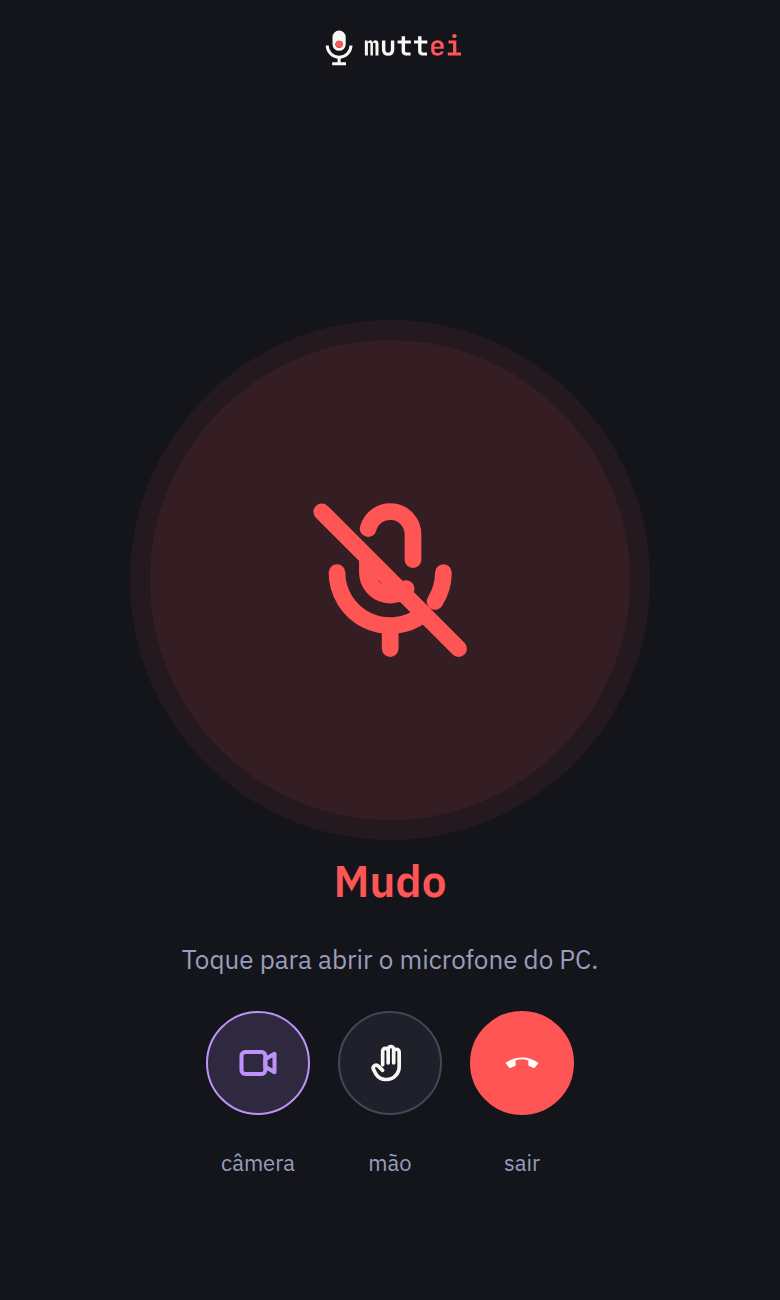
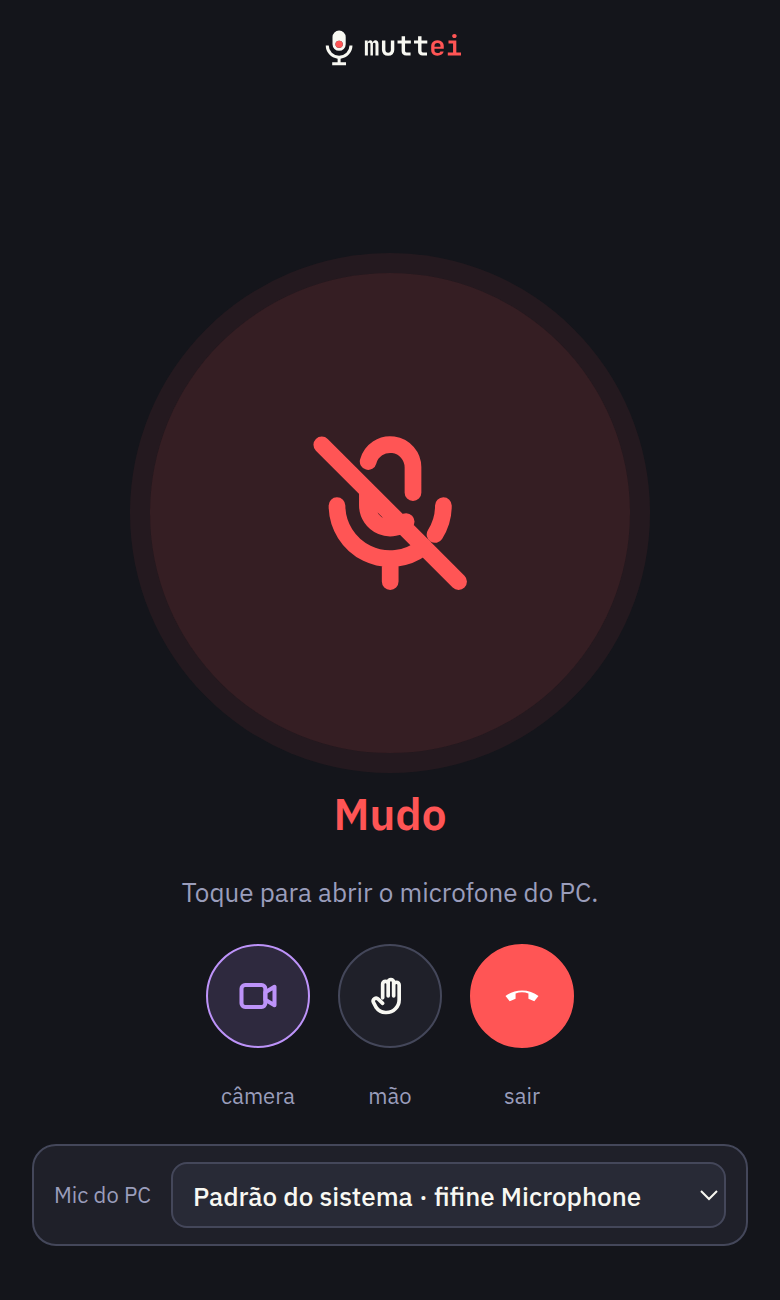
Pick the PC microphone from the phone

diff --git a/ui/phone.html b/ui/phone.html
@@ -10,7 +10,7 @@
 @font-face{font-family:"IBM Plex Sans";font-weight:100 700;font-display:swap;src:url(/fonts/IBMPlexSans.woff2) format("woff2")}
 @font-face{font-family:"JetBrains Mono";font-weight:100 800;font-display:swap;src:url(/fonts/JetBrainsMono.woff2) format("woff2")}
 /* telas do celular do protótipo aprovado, em tela cheia */
-:root{--yellow:#f1fa8c;--accent-soft:rgba(189,147,249,.16);--fg:#f8f8f2;--muted:#9a9dbb;--comment:#6272a4;--accent:#bd93f9;--ok:#50fa7b;--bad:#ff5555;--bad-soft:rgba(255,85,85,.14);--ok-soft:rgba(80,250,123,.12);
+:root{--yellow:#f1fa8c;--orange:#ffb86c;--accent-soft:rgba(189,147,249,.16);--fg:#f8f8f2;--muted:#9a9dbb;--comment:#6272a4;--accent:#bd93f9;--ok:#50fa7b;--bad:#ff5555;--bad-soft:rgba(255,85,85,.14);--ok-soft:rgba(80,250,123,.12);
   --sans:"IBM Plex Sans",system-ui,sans-serif;--mono:"JetBrains Mono",ui-monospace,monospace;color-scheme:dark}
 *{box-sizing:border-box}
 html,body{margin:0;height:100%}
@@ -18,7 +18,8 @@ body{background:#14151b;color:var(--fg);font:13px/1.45 var(--sans);display:flex;
   padding:env(safe-area-inset-top,0px) max(16px,env(safe-area-inset-right,0px)) env(safe-area-inset-bottom,0px) max(16px,env(safe-area-inset-left,0px))}
 button{font:inherit;color:inherit;background:none;border:0;cursor:pointer;padding:0;-webkit-tap-highlight-color:transparent}
 :focus-visible{outline:2px solid var(--accent);outline-offset:2px}
-.pbody{flex:1;display:flex;flex-direction:column;align-items:center;justify-content:center;gap:16px;padding:20px 0;text-align:center}
+.pbody{flex:1;display:flex;flex-direction:column;align-items:center;justify-content:safe center;gap:16px;padding:20px 0;text-align:center;min-height:0;overflow-y:auto}
+.pbody>*{flex-shrink:0}
 .pbody.buzz{animation:buzz .32s linear}
 @keyframes buzz{20%{transform:translateX(-3px) rotate(-.6deg)}40%{transform:translateX(3px) rotate(.6deg)}60%{transform:translateX(-2px)}80%{transform:translateX(2px)}}
 .pbody h3{margin:0;font-size:17px;font-weight:600;text-wrap:balance}
@@ -47,6 +48,10 @@ button{font:inherit;color:inherit;background:none;border:0;cursor:pointer;paddin
 .pb:disabled{opacity:.35;cursor:default}
 .plabels{display:flex;gap:14px;font-size:11px;color:var(--muted)}
 .plabels span{width:52px;text-align:center}
+.pmic{width:100%;display:grid;grid-template-columns:auto 1fr;align-items:center;gap:4px 10px;padding:8px 10px;border-radius:12px;background:#1f2029;border:1px solid #44475a;text-align:left}
+.pmic label{font-size:11px;color:var(--muted)}
+.pmic select{min-width:0;font:500 13px var(--sans);color:var(--fg);background:#282a36;border:1px solid #44475a;border-radius:8px;padding:6px}
+.pmic .gone{grid-column:1/-1;font-size:11.5px;color:var(--orange)}
 @media (prefers-reduced-motion:reduce){*{animation:none!important;transition:none!important}}
 </style>
 </head>
@@ -68,7 +73,7 @@ const $ = s => document.querySelector(s);
 const esc = s => String(s ?? '').replace(/&/g,'&amp;').replace(/</g,'&lt;').replace(/>/g,'&gt;');
 const store = { get(){ try{ return localStorage.getItem('muttei-token'); }catch(e){ return null; } },
                 set(v){ try{ v ? localStorage.setItem('muttei-token', v) : localStorage.removeItem('muttei-token'); }catch(e){} } };
-const st = { screen: store.get() ? 'wait' : 'pin', err:'', muted:false, meet:null, host:location.hostname, token:store.get() };
+const st = { screen: store.get() ? 'wait' : 'pin', err:'', muted:false, meet:null, host:location.hostname, token:store.get(), mics:[], mic:null, mic_desc:'', mic_gone:false };
 let ws;
 
 function buzz(){ const b=$('#pbody'); b.classList.remove('buzz'); void b.offsetWidth; b.classList.add('buzz'); try{ navigator.vibrate && navigator.vibrate(40); }catch(e){} }
@@ -81,7 +86,8 @@ function connect(){
     const m = JSON.parse(e.data);
     if(m.host) st.host = m.host;
     if('meet' in m) st.meet = m.meet;
-    if(m.t==='paired'){ st.token=m.token; store.set(m.token); st.muted=m.muted; st.screen='ctl'; st.err=''; buzz(); }
+    if('mics' in m) Object.assign(st, {mics:m.mics, mic:m.mic, mic_desc:m.mic_desc, mic_gone:m.mic_gone});
+    if(m.t==='paired'){ st.token=m.token; store.set(m.token); st.muted=m.muted; st.screen='ctl'; st.err=''; buzz(); send({t:'hello', token:m.token}); }
     else if(m.t==='bad'){ st.err=`Código errado. ${m.left} tentativa${m.left>1?'s':''} antes de gerar um novo.`; render(); const p=$('.pin'); p&&p.classList.add('bad'); return; }
     else if(m.t==='regen'){ st.err='5 tentativas erradas. O PC gerou um código novo; espere 1 minuto.'; }
     else if(m.t==='locked'){ st.err=`Muitas tentativas. Espere ${m.secs} s e use o código novo.`; }
@@ -129,11 +135,21 @@ function render(){
         <button class="pb leave" data-pc="leave" ${ready?'':'disabled'} aria-label="Sair da chamada">${ICON.leave}</button>
       </div>
       <div class="plabels"><span>câmera</span><span>mão</span><span>sair</span></div>
-      ${ready?'':'<p style="font-size:12px">Câmera, mão e sair aparecem quando houver uma chamada do Meet aberta.</p>'}`;
+      ${ready?'':'<p style="font-size:12px">Câmera, mão e sair aparecem quando houver uma chamada do Meet aberta.</p>'}
+      ${micPicker()}`;
     pf.textContent = `● conectado a ${st.host} · token ${st.token.slice(0,6)}…`;
     $('#pMic').onclick = ()=>send({t:'toggle', token:st.token});
     pb.querySelectorAll('[data-pc]').forEach(b=>b.onclick=()=>send({t:'cmd', cmd:b.dataset.pc, token:st.token}));
+    const pm = $('#pMicSel');
+    if(pm){ pm.value = st.mic || ''; pm.onchange = ()=>{ buzz(); send({t:'mic', name:pm.value||null, token:st.token}); }; }
   }
+}
+function micPicker(){
+  if(!st.mics.length) return '';
+  const def = st.mics.find(m=>m.def), opts = st.mic_gone ? [...st.mics, {name:st.mic, desc:st.mic_desc, gone:true}] : st.mics;
+  return `<div class="pmic"><label for="pMicSel">Mic do PC</label>
+    <select id="pMicSel"><option value="">Padrão do sistema${def?` · ${esc(def.desc)}`:''}</option>${opts.map(m=>`<option value="${esc(m.name)}">${esc(m.desc)}${m.gone?' (desconectado)':''}</option>`).join('')}</select>
+    ${st.mic_gone?'<span class="gone">Desconectado: usando o padrão até ele voltar.</span>':''}</div>`;
 }
 render();
 connect();

diff --git a/src-tauri/src/main.rs b/src-tauri/src/main.rs
@@ -44,6 +44,7 @@ const TOP: f64 = 40.0;
 
 #[derive(Clone)]
 pub enum Event {
+    Mics,
     Muted(bool),
     Devices,
     Cmd(String),
@@ -105,6 +106,14 @@ struct HoldView {
 }
 
 #[derive(Serialize, Clone)]
+pub struct MicView {
+    mic: Option<String>,
+    mic_desc: String,
+    mics: Vec<audio::Mic>,
+    mic_gone: bool,
+}
+
+#[derive(Serialize, Clone)]
 struct Snapshot {
     muted: bool,
     holding: Option<HoldView>,
@@ -122,10 +131,8 @@ struct Snapshot {
     lock_rule: bool,
     app_rule: bool,
     meet_rule: bool,
-    mic: Option<String>,
-    mic_desc: String,
-    mics: Vec<audio::Mic>,
-    mic_gone: bool,
+    #[serde(flatten)]
+    mic: MicView,
     apps: Vec<String>,
     running: Vec<String>,
     phone_on: bool,
@@ -190,8 +197,31 @@ impl Core {
             self.update_indicators();
         }
         if retarget || relist {
+            let _ = self.tx.send(Event::Mics);
             self.emit_state();
         }
+    }
+
+    pub fn mic_view(&self) -> MicView {
+        let s = self.settings();
+        MicView {
+            mic_gone: s.mic.is_some() && *self.target.lock().unwrap() == audio::DEFAULT,
+            mic: s.mic,
+            mic_desc: s.mic_desc,
+            mics: self.mics.lock().unwrap().clone(),
+        }
+    }
+
+    pub fn set_mic(self: &Arc<Self>, name: Option<&str>, src: &str) -> bool {
+        let mics = self.mics.lock().unwrap().clone();
+        let Some(m) = audio::pick(&mics, name) else { return false };
+        let desc = m.map(|m| m.desc.clone()).unwrap_or_default();
+        if self.update(serde_json::json!({"mic": name, "mic_desc": desc})).is_err() {
+            return false;
+        }
+        let shown = if desc.is_empty() { "padrão do sistema".to_string() } else { desc };
+        self.pill_icon(if self.muted() { "off" } else { "on" }, "Microfone", &format!("{shown} · {src}"), "mic");
+        true
     }
 
     pub fn hostname(&self) -> String {
@@ -231,10 +261,7 @@ impl Core {
             lock_rule: s.lock_rule,
             app_rule: s.app_rule,
             meet_rule: s.meet_rule,
-            mic_gone: s.mic.is_some() && *self.target.lock().unwrap() == audio::DEFAULT,
-            mic: s.mic.clone(),
-            mic_desc: s.mic_desc.clone(),
-            mics: self.mics.lock().unwrap().clone(),
+            mic: self.mic_view(),
             apps: s.apps.clone(),
             running: self.running.lock().unwrap().iter().filter(|r| s.apps.contains(r)).cloned().collect(),
             phone_on: s.phone_on,
@@ -656,6 +683,7 @@ impl Core {
         }
         if old.mic != new.mic {
             self.refresh_mics();
+            let _ = self.tx.send(Event::Mics);
         }
         if old.dot_corner != new.dot_corner {
             ensure_dots(&self.app, &new.dot_corner);

diff --git a/src-tauri/src/remote.rs b/src-tauri/src/remote.rs
@@ -138,7 +138,11 @@ impl Pairing {
 }
 
 fn phone_state(core: &Core, host: &str) -> Value {
-    json!({"t":"state","muted":core.muted(),"host":host,"meet":core.meet_status()})
+    let mut v = json!({"t":"state","muted":core.muted(),"host":host,"meet":core.meet_status()});
+    if let (Some(o), Ok(Value::Object(m))) = (v.as_object_mut(), serde_json::to_value(core.mic_view())) {
+        o.extend(m);
+    }
+    v
 }
 
 fn device_name(ua: &str) -> String {
@@ -194,10 +198,14 @@ async fn phone_loop(mut ws: WebSocket, core: Arc<Core>, ua: String) {
                         };
                         if !send(&mut ws, reply).await { break }
                     }
-                    "hello" | "toggle" | "cmd" if core.valid_token(&tok) => {
+                    "hello" | "toggle" | "cmd" | "mic" if core.valid_token(&tok) => {
                         authed = Some(tok);
                         let reply = match v["t"].as_str() {
                             Some("toggle") => json!({"t":"ack","muted":core.toggle("celular")}),
+                            Some("mic") => {
+                                core.set_mic(v["name"].as_str(), "celular");
+                                phone_state(&core, &host)
+                            }
                             Some("cmd") => {
                                 let cmd = v["cmd"].as_str().filter(|c| MEET_CMDS.contains(c)).unwrap_or("");
                                 json!({"t":"ack","muted":core.muted(),"cmd":cmd,"ok":!cmd.is_empty() && core.meet_cmd(cmd, "celular")})
@@ -206,7 +214,7 @@ async fn phone_loop(mut ws: WebSocket, core: Arc<Core>, ua: String) {
                         };
                         if !send(&mut ws, reply).await { break }
                     }
-                    "hello" | "toggle" | "cmd" => {
+                    "hello" | "toggle" | "cmd" | "mic" => {
                         authed = None;
                         if !send(&mut ws, json!({"t":"revoked"})).await { break }
                     }
@@ -217,7 +225,7 @@ async fn phone_loop(mut ws: WebSocket, core: Arc<Core>, ua: String) {
                 let Ok(e) = e else { continue };
                 let Some(tok) = authed.clone() else { continue };
                 let msg = match e {
-                    Event::Muted(_) | Event::Meet => phone_state(&core, &host),
+                    Event::Muted(_) | Event::Meet | Event::Mics => phone_state(&core, &host),
                     Event::Devices if !core.valid_token(&tok) => { authed = None; json!({"t":"revoked"}) }
                     Event::Devices | Event::Cmd(_) => continue,
                 };

diff --git a/src-tauri/src/audio.rs b/src-tauri/src/audio.rs
@@ -90,6 +90,14 @@ pub fn mics() -> Vec<Mic> {
     Command::new("pw-dump").output().map(|o| parse_mics(&String::from_utf8_lossy(&o.stdout))).unwrap_or_default()
 }
 
+/// `None` means the name isn't a known mic; `Some(None)` is the system default.
+pub fn pick<'a>(mics: &'a [Mic], name: Option<&str>) -> Option<Option<&'a Mic>> {
+    match name {
+        None => Some(None),
+        Some(n) => mics.iter().find(|m| m.name == n).map(Some),
+    }
+}
+
 pub fn target(mics: &[Mic], chosen: Option<&str>) -> String {
     chosen.and_then(|c| mics.iter().find(|m| m.name == c)).map(|m| m.id.clone()).unwrap_or_else(|| DEFAULT.into())
 }
@@ -132,5 +140,8 @@ mod tests {
         assert_eq!(target(&m, Some("unplugged")), DEFAULT);
         assert_eq!(target(&m, None), DEFAULT);
         assert!(parse_mics("not json").is_empty());
+        assert_eq!(pick(&m, None), Some(None));
+        assert_eq!(pick(&m, Some("headset")).flatten().map(|x| x.id.as_str()), Some("57"));
+        assert_eq!(pick(&m, Some("../../etc")), None);
     }
 }

diff --git a/README.md b/README.md
@@ -56,9 +56,9 @@ A pílula aparece em todos os monitores a cada mudança. Enquanto o microfone es
 O Muttei muta ao travar a tela, ao entrar numa chamada do Meet e quando abre um app da sua lista, por exemplo o `zoom`. As regras só fecham o microfone, nunca abrem.
 
 ### O celular vira o botão
-Se você levantou da mesa, abra a página do Muttei no celular, na mesma rede Wi-Fi. Não precisa instalar nada. O pareamento é por QR e por um código de 4 dígitos, e cada aparelho pode ser revogado nos Ajustes. Com uma chamada do Meet aberta, aparecem também os botões de câmera, mão e sair.
+Se você levantou da mesa, abra a página do Muttei no celular, na mesma rede Wi-Fi. Não precisa instalar nada. O pareamento é por QR e por um código de 4 dígitos, e cada aparelho pode ser revogado nos Ajustes. Com uma chamada do Meet aberta, aparecem também os botões de câmera, mão e sair. Pelo celular também dá para trocar o microfone que o PC muta, por exemplo do headset para o mic da webcam.
 
-<p align="center"><img src="docs/shots/celular.png" alt="Página do celular com o microfone mudo e os botões de câmera, mão e sair" width="240"></p>
+<p align="center"><img src="docs/shots/celular.png" alt="Página do celular com o microfone mudo, os botões de câmera, mão e sair e o seletor de microfone do PC" width="240"></p>
 
 ### Google Meet de verdade
 Com a extensão em [`extension/`](extension/), o ícone de microfone do Meet acompanha o estado do Muttei. A extensão também executa câmera, levantar a mão e sair da chamada, pelo atalho ou pelo celular.
